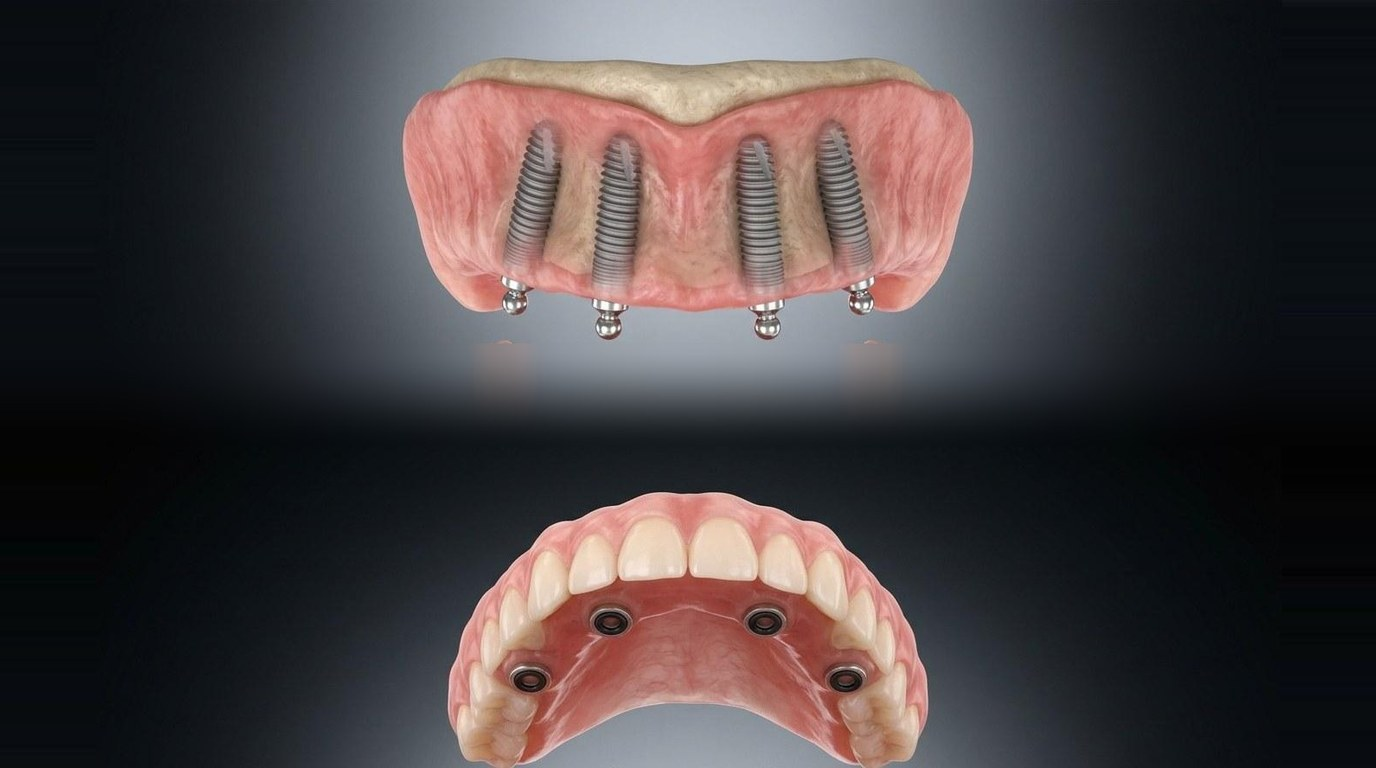
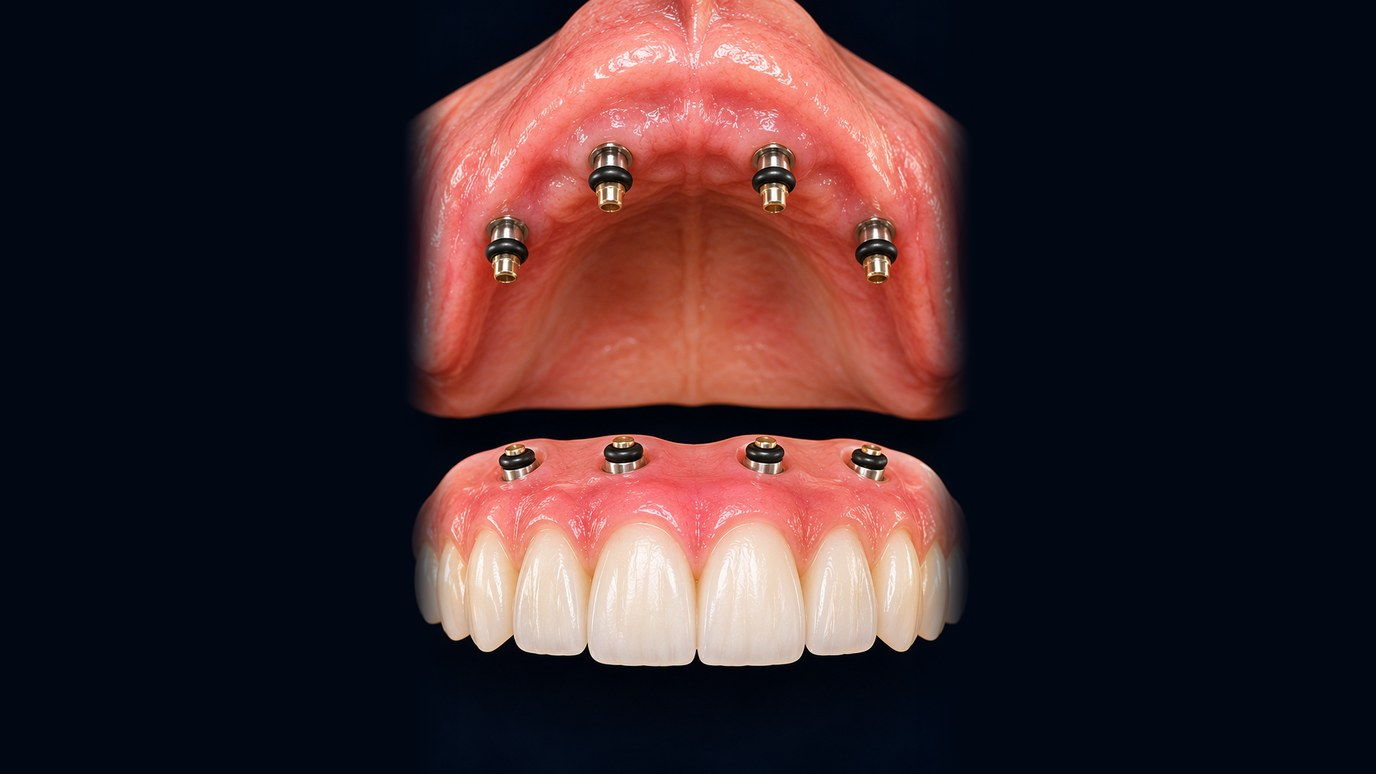
RP-5 O-ring pictures replaced

diff --git a/implant-options.html b/implant-options.html
@@ -194,7 +194,7 @@ footer{background:#07151f;color:#aebdc9;font-size:.86rem;padding:22px 0}footer a
     <div class="cta"><a class="btn" href="https://wa.me/918369187806?text=Hello%2C%20I%20would%20like%20to%20book%20an%20appointment.">Book an appointment</a><a class="btn o" href="tel:+918369187806">Call +91 83691 87806</a></div>
   </div>
 </section>
-<section class="sec"><div class="wrap narrow"><h2>Teeth on implants: which type?</h2><p>Teeth on dental implants are grouped by the Misch classification (1989). <b>FP</b> means fixed prosthesis: you cannot take it out, only the dentist can. <b>RP</b> means removable prosthesis: you take it out to clean it. FP-1 to FP-3 describe how much tooth and gum is replaced. RP-4 and RP-5 describe what supports the denture.</p><div class="fpk" id="fp123"><h2>FP-1, FP-2, FP-3</h2><p class="sub">Know the difference · Misch classification</p><div class="fpr"><div><div class="hd"><span class="bd">FP-1</span><h3>Fixed bridge or crowns: replaces only the crown</h3></div><p>The new teeth have normal length and come out of your own healthy gum, so they look like natural teeth. No pink material is used.</p><div class="ind"><b>When it is used</b>Enough bone and gum are still there (little shrinkage), usually soon after the tooth was lost. Best for front teeth when the gum shows on smiling.</div></div><figure><img src="images/fp1.jpg" alt="FP-1: all-white implant bridge with teeth of natural length, below four abutments, 3D illustration" loading="lazy" decoding="async"></figure></div><div class="fpr"><div><div class="hd"><span class="bd">FP-2</span><h3>Fixed bridge: replaces the crown and part of the root</h3></div><p>Some bone has shrunk, so the teeth are made a little longer near the gum to fill the space. Still tooth-coloured only, with no pink material.</p><div class="ind"><b>When it is used</b>Moderate bone loss, and a lip line that hides the gum side of the teeth when you smile and speak.</div></div><figure><img src="images/fp2.jpg" alt="FP-2: all-white implant bridge with longer teeth near the gum, below four abutments, 3D illustration" loading="lazy" decoding="async"></figure></div><div class="fpr"><div><div class="hd"><span class="bd">FP-3</span><h3>Fixed bridge with pink gum: replaces teeth and gum</h3></div><p>Pink porcelain, zirconia or acrylic replaces the gum and bone that are lost, so the teeth keep a normal length. All-on-4 and All-on-6 bridges are FP-3.</p><div class="ind"><b>When it is used</b>Major bone loss or a full arch of missing teeth, or when the lips need support for a fuller face.</div></div><figure><img src="images/fp3.jpg" alt="FP-3: implant bridge with pink gum-coloured porcelain, below four abutments, 3D illustration" loading="lazy" decoding="async"></figure></div><div class="fpb"><div><h4>How the dentist chooses</h4><ul><li>How much bone and gum is left, checked on a 3D CBCT scan.</li><li>Your smile line: how much gum shows when you smile.</li><li>Lip and face support you need.</li><li>How easily you can clean under the bridge.</li></ul></div><div><h4>Key points</h4><ul><li><b>FP-1</b>: crown only, looks natural, no pink.</li><li><b>FP-2</b>: teeth a little longer near the gum, no pink.</li><li><b>FP-3</b>: teeth plus pink gum, for bigger bone loss and full arches.</li><li>All three are fixed: only the dentist can remove them.</li></ul></div></div><p class="tag2">Your smile, your confidence</p></div></div><div class="wrap"><div class="cards one"><div class="card"><div class="ph"><img src="images/implant-fp1.jpg?v=3" alt="3D view of four implants with four separate single crowns below them" loading="lazy" decoding="async"></div><div class="cb"><span class="tag">Fixed</span><span class="tag">FP-1</span><h3 class="sf" style="margin-top:4px">FP-1: fixed, replaces only the crown</h3><ul class="b"><li>Replaces only the visible crown, so it looks like a natural tooth. No pink gum material is used.</li><li>Needs enough bone and healthy gum with little shrinkage, so it is most often used for front teeth.</li><li>Cleaned like natural teeth: brushing and floss.</li></ul><p class="shown"><b>In the picture:</b> four implants, each with its own separate crown.</p></div></div><div class="card"><div class="ph"><img src="images/implant-fp2.jpg" alt="3D view of implants with a six-unit ceramic bridge with long gum-side contours lifted above" loading="lazy" decoding="async"></div><div class="cb"><span class="tag">Fixed</span><span class="tag">FP-2</span><h3 class="sf" style="margin-top:4px">FP-2: fixed, replaces the crown and part of the root</h3><ul class="b"><li>The biting half looks normal, but the gum half is longer, to make up for bone that has shrunk.</li><li>Small spaces are left under the bridge so it can be cleaned, using interdental brushes or a water flosser.</li><li>Tooth-coloured ceramic only, with no pink gum material.</li></ul><p class="shown"><b>In the picture:</b> a joined ceramic bridge on implants, with the longer gum side and cleaning space.</p></div></div><div class="card"><div class="ph"><div class="ip2"><img src="images/implant-fp3upper6.jpg?v=3" alt="3D view of six upper implants and a fixed full-arch acrylic hybrid prosthesis below" loading="lazy" decoding="async"><img src="images/implant-fp3lower4.jpg" alt="3D view of four lower implants and a fixed full-arch acrylic hybrid prosthesis lifted above" loading="lazy" decoding="async"></div></div><div class="cb"><span class="tag">Fixed</span><span class="tag">FP-3</span><h3 class="sf" style="margin-top:4px">FP-3: fixed, replaces teeth and gum (acrylic hybrid)</h3><ul class="b"><li>Replaces the teeth, the pink gum colour and part of the missing jaw volume.</li><li>Usually acrylic teeth and pink acrylic gum on a titanium frame (a fixed acrylic or hybrid prosthesis). It can also be zirconia with pink porcelain.</li><li>Screwed onto the implants. You cannot take it out; the dentist removes it for cleaning and check-ups.</li><li>Often chosen after losing most or all teeth, when there is bone loss. Acrylic can wear or chip over the years and may need repair or replacement.</li></ul><p class="shown"><b>In the picture:</b> 6 implants in the upper jaw and 4 implants in the lower jaw, each with a one-piece fixed acrylic hybrid above it. The number of implants is decided after your examination and scan.</p></div></div><div class="card"><div class="ph"><img src="images/implant-rp4.png" alt="3D view of four lower implants joined by a bar with an overdenture lifted above" loading="lazy" decoding="async"></div><div class="cb"><span class="tag rm">Removable</span><span class="tag">RP-4</span><h3 class="sf" style="margin-top:4px">RP-4: removable overdenture, supported only by implants</h3><ul class="b"><li>The denture clips onto a bar joined to the implants and does not rest on the gum for support.</li><li>Needs about as many implants as a fixed bridge.</li><li>You remove it every day to clean it. The clips wear and are replaced at check-ups.</li></ul><p class="shown"><b>In the picture:</b> four lower implants joined by a metal bar, with the denture and its clip housing above.</p></div></div><div class="card"><div class="ph"><img src="images/implant-rp5lower2.png" alt="3D view of two lower implants with ball O-ring abutments and a lower overdenture lifted above" loading="lazy" decoding="async"></div><div class="cb"><span class="tag rm">Removable</span><span class="tag">RP-5</span><h3 class="sf" style="margin-top:4px">RP-5: lower overdenture on 2 implants (O-ring)</h3><ul class="b"><li>Supported by both the implants and the gum.</li><li>Each implant carries a small ball-type abutment. A metal housing with a rubber O-ring inside the denture snaps over it (for example Osstem implants with O-ring attachments).</li><li>The most affordable way to make a lower denture firm. Remove it daily to clean it; the O-rings wear and are replaced.</li></ul><p class="shown"><b>In the picture:</b> two implants with ball abutments in the canine areas, and the lower denture with two O-ring housings.</p></div></div><div class="card"><div class="ph"><img src="images/implant-rp5upper4.jpg?v=3" alt="3D view of four upper implants with ball O-ring abutments and an upper overdenture below" loading="lazy" decoding="async"></div><div class="cb"><span class="tag rm">Removable</span><span class="tag">RP-5</span><h3 class="sf" style="margin-top:4px">RP-5: upper overdenture on 4 implants (ball and O-ring)</h3><ul class="b"><li>Supported by the implants and the gum, with the palate covered.</li><li>Four ball abutments carry four O-ring housings in the denture. The upper jaw is usually softer than the lower, so it needs more implants.</li><li>Removable for cleaning. The O-rings are replaced as they wear.</li></ul><p class="shown"><b>In the picture:</b> four implants with ball abutments, and the upper denture with four O-ring housings.</p></div></div></div></div><div class="wrap narrow"><h3 class="sf">At a glance</h3><div class="cmpw"><table class="cmp"><tr><th>Type</th><th>Fixed or removable</th><th>Replaces</th><th>Supported by</th><th>Examples of implant numbers</th></tr><tr><td>FP-1</td><td>Fixed</td><td>Crown only</td><td>Implants</td><td>One per missing tooth</td></tr><tr><td>FP-2</td><td>Fixed</td><td>Crown and part of the root</td><td>Implants</td><td>Depends on the bridge</td></tr><tr><td>FP-3</td><td>Fixed</td><td>Teeth and gum</td><td>Implants</td><td>For example 4 to 6 per jaw</td></tr><tr><td>RP-4</td><td>Removable</td><td>Teeth and gum</td><td>Implants only</td><td>About as many as a fixed bridge</td></tr><tr><td>RP-5</td><td>Removable</td><td>Teeth and gum</td><td>Implants and gum</td><td>For example 2 lower, 4 upper</td></tr></table></div><div class="note">These are AI-generated 3D pictures made for explanation only. Real prostheses and implant numbers differ for each person. Your dentist decides what suits you after an examination, X-rays and a CBCT scan, and gives you the cost before treatment starts.</div><p class="muted">Classification: Misch 1989. Reference: <a href="https://pocketdentistry.com/5-prosthetic-options-in-implant-dentistry/" rel="noopener">Prosthetic options in implant dentistry</a>.</p><div class="cta"><a class="btn" href="https://wa.me/918369187806?text=Hello%2C%20I%20would%20like%20to%20ask%20about%20implant%20teeth%20options.">Ask on WhatsApp</a><a class="btn o2" href="tel:+918369187806">Call +91 83691 87806</a></div></div></section>
+<section class="sec"><div class="wrap narrow"><h2>Teeth on implants: which type?</h2><p>Teeth on dental implants are grouped by the Misch classification (1989). <b>FP</b> means fixed prosthesis: you cannot take it out, only the dentist can. <b>RP</b> means removable prosthesis: you take it out to clean it. FP-1 to FP-3 describe how much tooth and gum is replaced. RP-4 and RP-5 describe what supports the denture.</p><div class="fpk" id="fp123"><h2>FP-1, FP-2, FP-3</h2><p class="sub">Know the difference · Misch classification</p><div class="fpr"><div><div class="hd"><span class="bd">FP-1</span><h3>Fixed bridge or crowns: replaces only the crown</h3></div><p>The new teeth have normal length and come out of your own healthy gum, so they look like natural teeth. No pink material is used.</p><div class="ind"><b>When it is used</b>Enough bone and gum are still there (little shrinkage), usually soon after the tooth was lost. Best for front teeth when the gum shows on smiling.</div></div><figure><img src="images/fp1.jpg" alt="FP-1: all-white implant bridge with teeth of natural length, below four abutments, 3D illustration" loading="lazy" decoding="async"></figure></div><div class="fpr"><div><div class="hd"><span class="bd">FP-2</span><h3>Fixed bridge: replaces the crown and part of the root</h3></div><p>Some bone has shrunk, so the teeth are made a little longer near the gum to fill the space. Still tooth-coloured only, with no pink material.</p><div class="ind"><b>When it is used</b>Moderate bone loss, and a lip line that hides the gum side of the teeth when you smile and speak.</div></div><figure><img src="images/fp2.jpg" alt="FP-2: all-white implant bridge with longer teeth near the gum, below four abutments, 3D illustration" loading="lazy" decoding="async"></figure></div><div class="fpr"><div><div class="hd"><span class="bd">FP-3</span><h3>Fixed bridge with pink gum: replaces teeth and gum</h3></div><p>Pink porcelain, zirconia or acrylic replaces the gum and bone that are lost, so the teeth keep a normal length. All-on-4 and All-on-6 bridges are FP-3.</p><div class="ind"><b>When it is used</b>Major bone loss or a full arch of missing teeth, or when the lips need support for a fuller face.</div></div><figure><img src="images/fp3.jpg" alt="FP-3: implant bridge with pink gum-coloured porcelain, below four abutments, 3D illustration" loading="lazy" decoding="async"></figure></div><div class="fpb"><div><h4>How the dentist chooses</h4><ul><li>How much bone and gum is left, checked on a 3D CBCT scan.</li><li>Your smile line: how much gum shows when you smile.</li><li>Lip and face support you need.</li><li>How easily you can clean under the bridge.</li></ul></div><div><h4>Key points</h4><ul><li><b>FP-1</b>: crown only, looks natural, no pink.</li><li><b>FP-2</b>: teeth a little longer near the gum, no pink.</li><li><b>FP-3</b>: teeth plus pink gum, for bigger bone loss and full arches.</li><li>All three are fixed: only the dentist can remove them.</li></ul></div></div><p class="tag2">Your smile, your confidence</p></div></div><div class="wrap"><div class="cards one"><div class="card"><div class="ph"><img src="images/implant-fp1.jpg?v=3" alt="3D view of four implants with four separate single crowns below them" loading="lazy" decoding="async"></div><div class="cb"><span class="tag">Fixed</span><span class="tag">FP-1</span><h3 class="sf" style="margin-top:4px">FP-1: fixed, replaces only the crown</h3><ul class="b"><li>Replaces only the visible crown, so it looks like a natural tooth. No pink gum material is used.</li><li>Needs enough bone and healthy gum with little shrinkage, so it is most often used for front teeth.</li><li>Cleaned like natural teeth: brushing and floss.</li></ul><p class="shown"><b>In the picture:</b> four implants, each with its own separate crown.</p></div></div><div class="card"><div class="ph"><img src="images/implant-fp2.jpg" alt="3D view of implants with a six-unit ceramic bridge with long gum-side contours lifted above" loading="lazy" decoding="async"></div><div class="cb"><span class="tag">Fixed</span><span class="tag">FP-2</span><h3 class="sf" style="margin-top:4px">FP-2: fixed, replaces the crown and part of the root</h3><ul class="b"><li>The biting half looks normal, but the gum half is longer, to make up for bone that has shrunk.</li><li>Small spaces are left under the bridge so it can be cleaned, using interdental brushes or a water flosser.</li><li>Tooth-coloured ceramic only, with no pink gum material.</li></ul><p class="shown"><b>In the picture:</b> a joined ceramic bridge on implants, with the longer gum side and cleaning space.</p></div></div><div class="card"><div class="ph"><div class="ip2"><img src="images/implant-fp3upper6.jpg?v=3" alt="3D view of six upper implants and a fixed full-arch acrylic hybrid prosthesis below" loading="lazy" decoding="async"><img src="images/implant-fp3lower4.jpg" alt="3D view of four lower implants and a fixed full-arch acrylic hybrid prosthesis lifted above" loading="lazy" decoding="async"></div></div><div class="cb"><span class="tag">Fixed</span><span class="tag">FP-3</span><h3 class="sf" style="margin-top:4px">FP-3: fixed, replaces teeth and gum (acrylic hybrid)</h3><ul class="b"><li>Replaces the teeth, the pink gum colour and part of the missing jaw volume.</li><li>Usually acrylic teeth and pink acrylic gum on a titanium frame (a fixed acrylic or hybrid prosthesis). It can also be zirconia with pink porcelain.</li><li>Screwed onto the implants. You cannot take it out; the dentist removes it for cleaning and check-ups.</li><li>Often chosen after losing most or all teeth, when there is bone loss. Acrylic can wear or chip over the years and may need repair or replacement.</li></ul><p class="shown"><b>In the picture:</b> 6 implants in the upper jaw and 4 implants in the lower jaw, each with a one-piece fixed acrylic hybrid above it. The number of implants is decided after your examination and scan.</p></div></div><div class="card"><div class="ph"><img src="images/implant-rp4.png" alt="3D view of four lower implants joined by a bar with an overdenture lifted above" loading="lazy" decoding="async"></div><div class="cb"><span class="tag rm">Removable</span><span class="tag">RP-4</span><h3 class="sf" style="margin-top:4px">RP-4: removable overdenture, supported only by implants</h3><ul class="b"><li>The denture clips onto a bar joined to the implants and does not rest on the gum for support.</li><li>Needs about as many implants as a fixed bridge.</li><li>You remove it every day to clean it. The clips wear and are replaced at check-ups.</li></ul><p class="shown"><b>In the picture:</b> four lower implants joined by a metal bar, with the denture and its clip housing above.</p></div></div><div class="card"><div class="ph"><img src="images/implant-rp5lower2.jpg?v=4" alt="3D view of two lower implants with ball O-ring abutments and a lower overdenture lifted above" loading="lazy" decoding="async"></div><div class="cb"><span class="tag rm">Removable</span><span class="tag">RP-5</span><h3 class="sf" style="margin-top:4px">RP-5: lower overdenture on 2 implants (O-ring)</h3><ul class="b"><li>Supported by both the implants and the gum.</li><li>Each implant carries a small ball-type abutment. A metal housing with a rubber O-ring inside the denture snaps over it (for example Osstem implants with O-ring attachments).</li><li>The most affordable way to make a lower denture firm. Remove it daily to clean it; the O-rings wear and are replaced.</li></ul><p class="shown"><b>In the picture:</b> two implants with ball abutments in the canine areas, and the lower denture with two O-ring housings.</p></div></div><div class="card"><div class="ph"><img src="images/implant-rp5upper4.jpg?v=4" alt="3D view of four upper implants with ball O-ring abutments and an upper overdenture below" loading="lazy" decoding="async"></div><div class="cb"><span class="tag rm">Removable</span><span class="tag">RP-5</span><h3 class="sf" style="margin-top:4px">RP-5: upper overdenture on 4 implants (ball and O-ring)</h3><ul class="b"><li>Supported by the implants and the gum, with the palate covered.</li><li>Four ball abutments carry four O-ring housings in the denture. The upper jaw is usually softer than the lower, so it needs more implants.</li><li>Removable for cleaning. The O-rings are replaced as they wear.</li></ul><p class="shown"><b>In the picture:</b> four implants with ball abutments, and the upper denture with four O-ring housings.</p></div></div></div></div><div class="wrap narrow"><h3 class="sf">At a glance</h3><div class="cmpw"><table class="cmp"><tr><th>Type</th><th>Fixed or removable</th><th>Replaces</th><th>Supported by</th><th>Examples of implant numbers</th></tr><tr><td>FP-1</td><td>Fixed</td><td>Crown only</td><td>Implants</td><td>One per missing tooth</td></tr><tr><td>FP-2</td><td>Fixed</td><td>Crown and part of the root</td><td>Implants</td><td>Depends on the bridge</td></tr><tr><td>FP-3</td><td>Fixed</td><td>Teeth and gum</td><td>Implants</td><td>For example 4 to 6 per jaw</td></tr><tr><td>RP-4</td><td>Removable</td><td>Teeth and gum</td><td>Implants only</td><td>About as many as a fixed bridge</td></tr><tr><td>RP-5</td><td>Removable</td><td>Teeth and gum</td><td>Implants and gum</td><td>For example 2 lower, 4 upper</td></tr></table></div><div class="note">These are AI-generated 3D pictures made for explanation only. Real prostheses and implant numbers differ for each person. Your dentist decides what suits you after an examination, X-rays and a CBCT scan, and gives you the cost before treatment starts.</div><p class="muted">Classification: Misch 1989. Reference: <a href="https://pocketdentistry.com/5-prosthetic-options-in-implant-dentistry/" rel="noopener">Prosthetic options in implant dentistry</a>.</p><div class="cta"><a class="btn" href="https://wa.me/918369187806?text=Hello%2C%20I%20would%20like%20to%20ask%20about%20implant%20teeth%20options.">Ask on WhatsApp</a><a class="btn o2" href="tel:+918369187806">Call +91 83691 87806</a></div></div></section>
 <footer><div class="wrap">© Dr Tejas Pradhan&#x27;s Dental Clinic, Jogeshwari East, Mumbai · Dr. Tejas Pradhan, Maharashtra State Dental Council Reg. No. A-20222.<br>General information only; treatment is decided after an examination.</div></footer>
 <div class="bar"><a href="https://wa.me/918369187806">WhatsApp</a><a href="tel:+918369187806">Call</a><a class="dir" href="https://www.google.com/maps/search/?api=1&query=Dr+Tejas+Pradhan's+Dental+Clinic+Kokan+Nagar+Jogeshwari+East+Mumbai">Directions</a></div>
 <script>document.querySelectorAll('.menu a').forEach(function(a){a.addEventListener('click',function(){document.getElementById('mn').checked=false})})</script>

diff --git a/index.html b/index.html
@@ -475,7 +475,7 @@ footer{background:#07151f;color:#aebdc9;font-size:.86rem;padding:22px 0}footer a
 
 <section class="sec alt" id="services"><div class="wrap">
   <p class="kick">Treatments</p><h2>What we treat</h2>
-  <div class="tg"><a href="root-canal.html"><span class="tim"><img src="images/card-root-canal.jpg" alt="Root canal treatment" loading="lazy" decoding="async"></span><span class="tb"><span class="nm">Root canal treatment</span><small>Save a painful or infected tooth instead of extracting it.</small><span class="go">Read more →</span></span></a><a href="clear-aligners.html"><span class="tim"><img src="images/card-clear-aligners.jpg" alt="Clear aligners" loading="lazy" decoding="async"></span><span class="tb"><span class="nm">Clear aligners</span><small>Nearly invisible, removable trays to straighten teeth.</small><span class="go">Read more →</span></span></a><a href="braces.html"><span class="tim"><img src="images/card-braces.jpg" alt="Braces" loading="lazy" decoding="async"></span><span class="tb"><span class="nm">Braces</span><small>Brackets and wires to straighten teeth and correct the bite.</small><span class="go">Read more →</span></span></a><a href="dental-implants.html"><span class="tim"><img src="images/card-dental-implants.jpg?v=3" alt="Dental implants" loading="lazy" decoding="async"></span><span class="tb"><span class="nm">Dental implants</span><small>A titanium post that replaces a missing tooth root.</small><span class="go">Read more →</span></span></a><a href="implant-overdenture.html"><span class="tim"><img src="images/card-implant-overdenture.jpg" alt="Implant-supported overdenture" loading="lazy" decoding="async"></span><span class="tb"><span class="nm">Implant-supported overdenture</span><small>A removable denture that snaps onto implants and stays firm.</small><span class="go">Read more →</span></span></a><a href="all-on-4-implants.html"><span class="tim"><img src="images/card-all-on-4-implants.jpg" alt="All-on-4 full-arch implants" loading="lazy" decoding="async"></span><span class="tb"><span class="nm">All-on-4 full-arch implants</span><small>A fixed full arch of teeth on four implants.</small><span class="go">Read more →</span></span></a><a href="tooth-extraction.html"><span class="tim"><img src="images/card-tooth-extraction.jpg" alt="Tooth extraction and wisdom teeth" loading="lazy" decoding="async"></span><span class="tb"><span class="nm">Tooth extraction and wisdom teeth</span><small>Routine and wisdom tooth removal under local anaesthesia.</small><span class="go">Read more →</span></span></a><a href="scaling-cleaning.html"><span class="tim"><img src="images/card-scaling-cleaning.jpg" alt="Scaling and teeth cleaning" loading="lazy" decoding="async"></span><span class="tb"><span class="nm">Scaling and teeth cleaning</span><small>Remove tartar, plaque and stains that brushing cannot.</small><span class="go">Read more →</span></span></a><a href="crowns-bridges.html"><span class="tim"><img src="images/card-crowns-bridges.jpg" alt="Crowns and bridges" loading="lazy" decoding="async"></span><span class="tb"><span class="nm">Crowns and bridges</span><small>Caps and bridges that protect or replace teeth.</small><span class="go">Read more →</span></span></a><a href="dentures.html"><span class="tim"><img src="images/card-dentures.jpg" alt="Dentures" loading="lazy" decoding="async"></span><span class="tb"><span class="nm">Dentures</span><small>Removable replacements for missing teeth.</small><span class="go">Read more →</span></span></a><a href="teeth-whitening.html"><span class="tim"><img src="images/card-teeth-whitening.jpg" alt="Teeth whitening" loading="lazy" decoding="async"></span><span class="tb"><span class="nm">Teeth whitening</span><small>Lighten the natural colour of your teeth, supervised by a dentist.</small><span class="go">Read more →</span></span></a><a href="fillings.html"><span class="tim"><img src="images/card-fillings.jpg" alt="Tooth-coloured fillings" loading="lazy" decoding="async"></span><span class="tb"><span class="nm">Tooth-coloured fillings</span><small>Tooth-coloured fillings for cavities and small chips.</small><span class="go">Read more →</span></span></a><a href="childrens-dentistry.html"><span class="tim"><img src="images/card-childrens-dentistry.jpg" alt="Children&#x27;s dentistry" loading="lazy" decoding="async"></span><span class="tb"><span class="nm">Children&#x27;s dentistry</span><small>Check-ups, fillings and preventive care for children.</small><span class="go">Read more →</span></span></a></div>
+  <div class="tg"><a href="root-canal.html"><span class="tim"><img src="images/card-root-canal.jpg" alt="Root canal treatment" loading="lazy" decoding="async"></span><span class="tb"><span class="nm">Root canal treatment</span><small>Save a painful or infected tooth instead of extracting it.</small><span class="go">Read more →</span></span></a><a href="clear-aligners.html"><span class="tim"><img src="images/card-clear-aligners.jpg" alt="Clear aligners" loading="lazy" decoding="async"></span><span class="tb"><span class="nm">Clear aligners</span><small>Nearly invisible, removable trays to straighten teeth.</small><span class="go">Read more →</span></span></a><a href="braces.html"><span class="tim"><img src="images/card-braces.jpg" alt="Braces" loading="lazy" decoding="async"></span><span class="tb"><span class="nm">Braces</span><small>Brackets and wires to straighten teeth and correct the bite.</small><span class="go">Read more →</span></span></a><a href="dental-implants.html"><span class="tim"><img src="images/card-dental-implants.jpg?v=3" alt="Dental implants" loading="lazy" decoding="async"></span><span class="tb"><span class="nm">Dental implants</span><small>A titanium post that replaces a missing tooth root.</small><span class="go">Read more →</span></span></a><a href="implant-overdenture.html"><span class="tim"><img src="images/card-implant-overdenture.jpg?v=4" alt="Implant-supported overdenture" loading="lazy" decoding="async"></span><span class="tb"><span class="nm">Implant-supported overdenture</span><small>A removable denture that snaps onto implants and stays firm.</small><span class="go">Read more →</span></span></a><a href="all-on-4-implants.html"><span class="tim"><img src="images/card-all-on-4-implants.jpg" alt="All-on-4 full-arch implants" loading="lazy" decoding="async"></span><span class="tb"><span class="nm">All-on-4 full-arch implants</span><small>A fixed full arch of teeth on four implants.</small><span class="go">Read more →</span></span></a><a href="tooth-extraction.html"><span class="tim"><img src="images/card-tooth-extraction.jpg" alt="Tooth extraction and wisdom teeth" loading="lazy" decoding="async"></span><span class="tb"><span class="nm">Tooth extraction and wisdom teeth</span><small>Routine and wisdom tooth removal under local anaesthesia.</small><span class="go">Read more →</span></span></a><a href="scaling-cleaning.html"><span class="tim"><img src="images/card-scaling-cleaning.jpg" alt="Scaling and teeth cleaning" loading="lazy" decoding="async"></span><span class="tb"><span class="nm">Scaling and teeth cleaning</span><small>Remove tartar, plaque and stains that brushing cannot.</small><span class="go">Read more →</span></span></a><a href="crowns-bridges.html"><span class="tim"><img src="images/card-crowns-bridges.jpg" alt="Crowns and bridges" loading="lazy" decoding="async"></span><span class="tb"><span class="nm">Crowns and bridges</span><small>Caps and bridges that protect or replace teeth.</small><span class="go">Read more →</span></span></a><a href="dentures.html"><span class="tim"><img src="images/card-dentures.jpg" alt="Dentures" loading="lazy" decoding="async"></span><span class="tb"><span class="nm">Dentures</span><small>Removable replacements for missing teeth.</small><span class="go">Read more →</span></span></a><a href="teeth-whitening.html"><span class="tim"><img src="images/card-teeth-whitening.jpg" alt="Teeth whitening" loading="lazy" decoding="async"></span><span class="tb"><span class="nm">Teeth whitening</span><small>Lighten the natural colour of your teeth, supervised by a dentist.</small><span class="go">Read more →</span></span></a><a href="fillings.html"><span class="tim"><img src="images/card-fillings.jpg" alt="Tooth-coloured fillings" loading="lazy" decoding="async"></span><span class="tb"><span class="nm">Tooth-coloured fillings</span><small>Tooth-coloured fillings for cavities and small chips.</small><span class="go">Read more →</span></span></a><a href="childrens-dentistry.html"><span class="tim"><img src="images/card-childrens-dentistry.jpg" alt="Children&#x27;s dentistry" loading="lazy" decoding="async"></span><span class="tb"><span class="nm">Children&#x27;s dentistry</span><small>Check-ups, fillings and preventive care for children.</small><span class="go">Read more →</span></span></a></div>
 </div></section>
 
 <section class="sec" id="approach"><div class="wrap">
